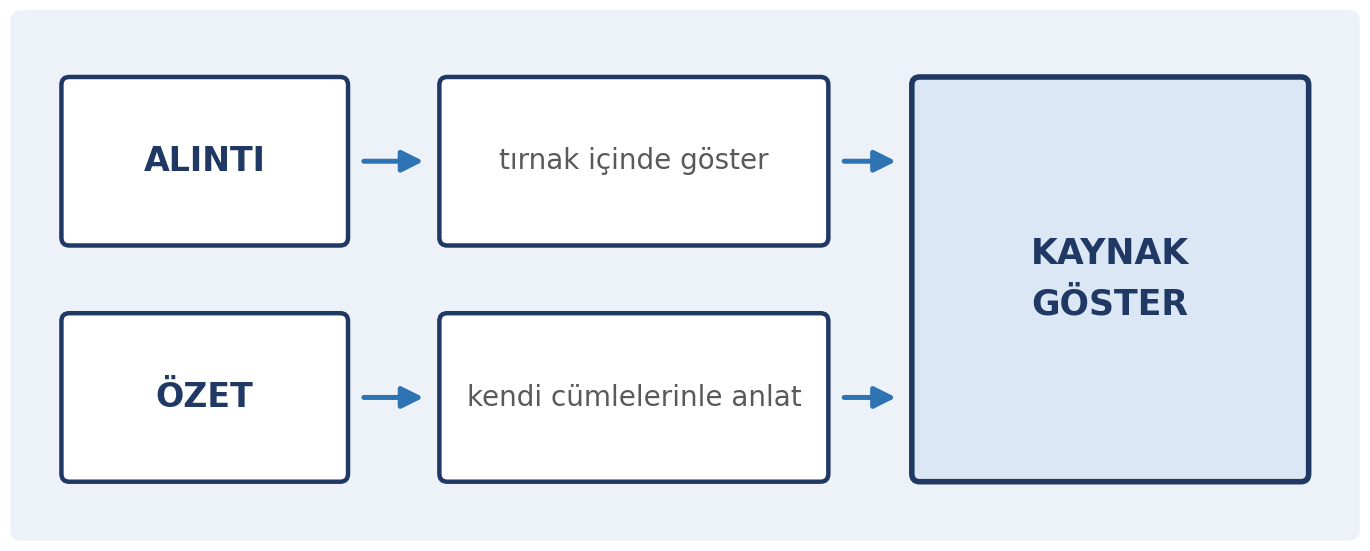
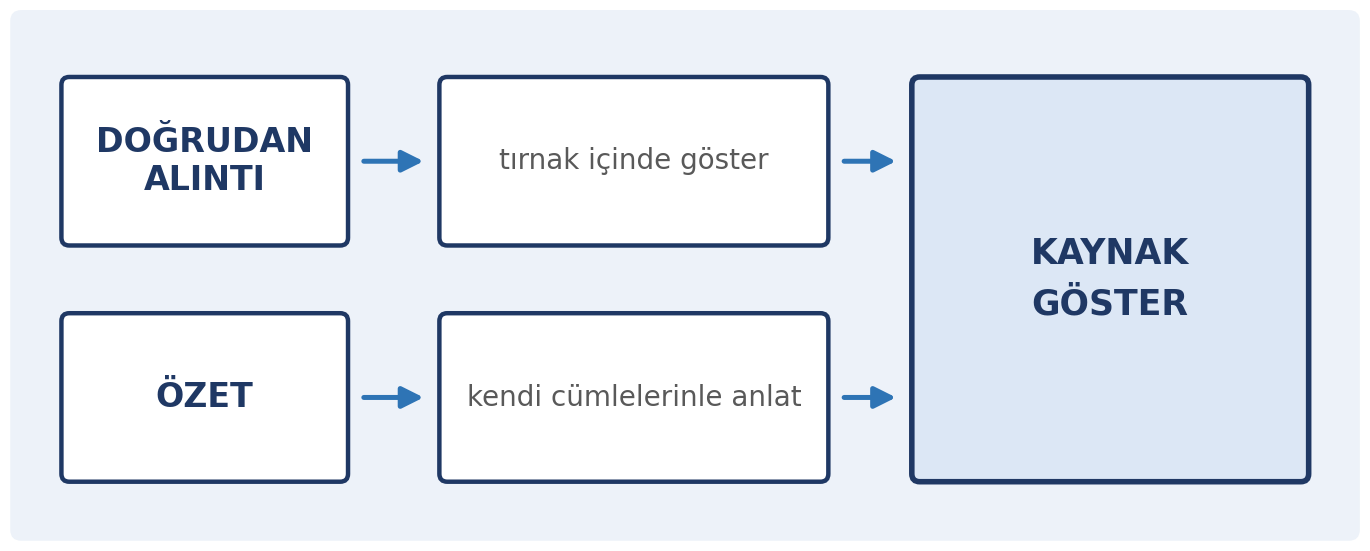
7. hafta: "Doğru Yol" şemasında "ALINTI" kutusu "DOĞRUDAN ALINTI" oldu
Kutu iki satıra bölündü; akış ve ölçüler değişmedi.

Changed region(s): [[0.0613, 0.216, 0.2453, 0.3702]]

diff --git a/diyagram_betikleri/diagram-dogru-yol.py b/diyagram_betikleri/diagram-dogru-yol.py
@@ -45,7 +45,7 @@ ALT_FS = 10
 SAG_FS = 12.5
 
 YOLLAR = [
-    (UST_Y, UST_H, "ALINTI", "tırnak içinde göster"),
+    (UST_Y, UST_H, "DOĞRUDAN\nALINTI", "tırnak içinde göster"),
     (ALT_Y, ALT_H, "ÖZET", "kendi cümlelerinle anlat"),
 ]
 SAG_METIN = "KAYNAK GÖSTER"
